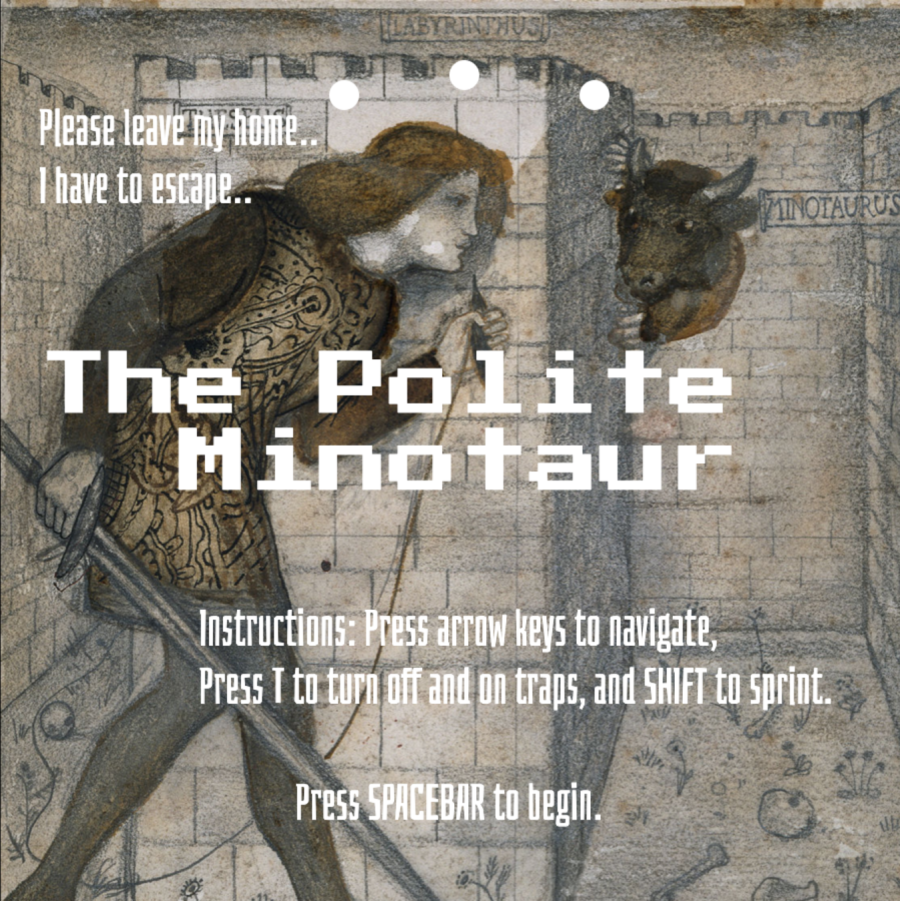
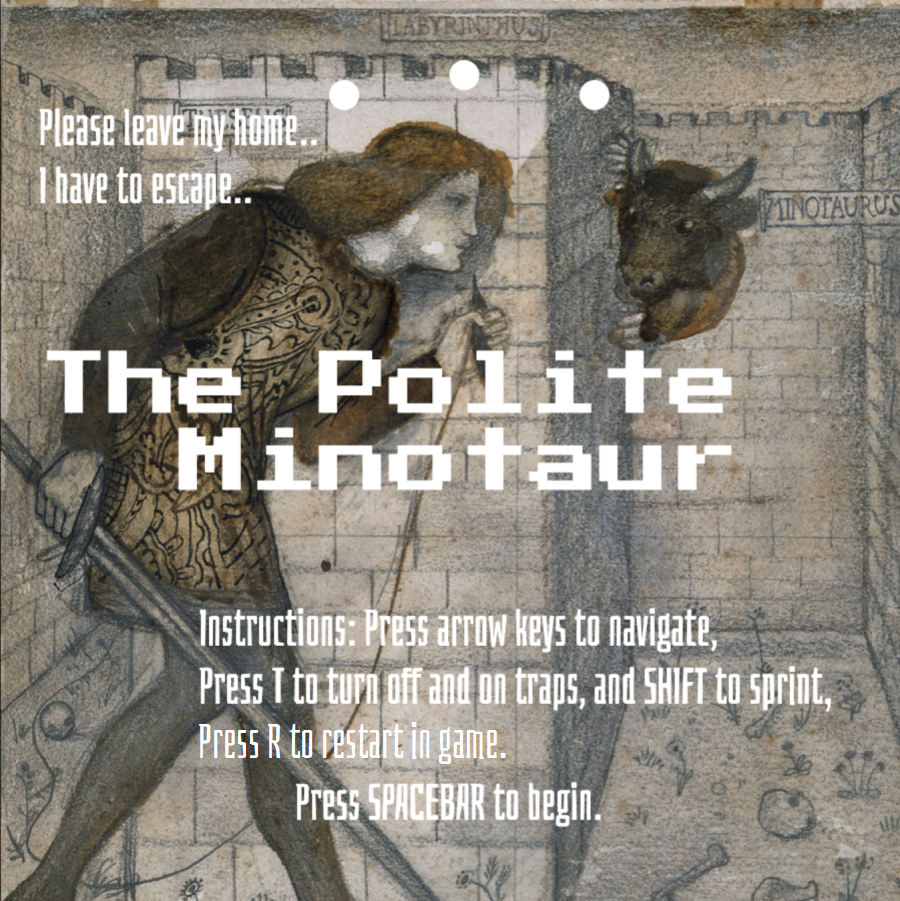
added restart in game

Changed region(s): [[0.2178, 0.808, 0.56, 0.8391]]

diff --git a/phaser/pm/js/gameover.js b/phaser/pm/js/gameover.js
@@ -10,19 +10,12 @@ GameOver.prototype = {
 	},
 
 	//create() places game over text into game space
-	create: function() {
-		if (!win){ //lose screen if you lose game
-			game.stage.backgroundColor = "#000000"; //background color
-			let titleText = game.add.text(35, 150, 'Game Over: You were killed.', { fontSize: '90px', fill: '#8A0303', font: 'Bahianita'});
-			let creditText = game.add.text(35, 420, 'Credits: \nMaxwell Burkhart: Programming and Sound Design\nDeo Joshi: Programming and Art\nAttie Sit: Programming and Art\n\nBackground music: From bensound at https://www.bensound.com\nMain menu art: Theseus and the Minosaur by Edward Burne-Jones 1861', {fill: '#ffffff', fontSize: '45px', font: 'Bahianita'});
-			let restartText = game.add.text(300, 320,'Press SPACEBAR to restart', {fill: '#aa8717', fontSize: '45px', font: 'Bahianita'});
-		}
+	create: function() {		
 		if (win){ //win screen if you win game
-			game.stage.backgroundColor = "#000000"; //background color
-			let titleText = game.add.text(30, 150, 'Game Over: You made it out alive!!!', { fontSize: '100px', fill: '#1cb377ff', font: 'Bahianita'});
-			let creditText = game.add.text(35, 420, 'Credits: \nMaxwell Burkhart: Programming and Sound Design\nDeo Joshi: Programming and Art\nAttie Sit: Programming and Art\n\nBackground music: From bensound at https://www.bensound.com\nMain menu art: Theseus and the Minosaur by Edward Burne-Jones 1861', {fill: '#ffffff', fontSize: '45px', font: 'Bahianita'});
-			let restartText = game.add.text(300, 320,'Press SPACEBAR to restart', {fill: '#aa8717', fontSize: '45px', font: 'Bahianita'});
+			game.add.image(0, 0, 'win'); //win screen
 			this.level++;
+		}else{ //lose screen if you lose game
+			game.add.image(0, 0, 'lose'); //lose screen
 		}
 	},
 

diff --git a/phaser/pm/js/title.js b/phaser/pm/js/title.js
@@ -8,6 +8,8 @@ MainMenu.prototype = {
 		game.load.image('dirt', 'assets/images/dirt.png');
 		game.load.image('fade', 'assets/images/fade.png');
 		game.load.image('doors', 'assets/images/doors.png');
+		game.load.image('lose', 'assets/images/lose.png');
+		game.load.image('win', 'assets/images/win.png');
 
 		//preload object assets
 		game.load.image('trapOff1', 'assets/images/trap3Idle.png'); //green default trap (50x50px)
@@ -36,6 +38,13 @@ MainMenu.prototype = {
 		game.load.audio('enemy',['assets/audio/enemy.mp3']);
 		game.load.audio('activate',['assets/audio/activate.mp3']);
 		game.load.audio('win',['assets/audio/win.mp3']);
+	},
+	
+	init: function(){
+		//game.scaleMode = Phaser.ScaleManager.SHOW_ALL;
+		//game.scale.pageAlignHorizontally = true;
+		//game.scale.pageAlignVertically = false;
+		//game.scale.windowConstraints.bottom = "visual";
 	},
 
 

diff --git a/phaser/pm/js/play.js b/phaser/pm/js/play.js
@@ -6,7 +6,6 @@ Play.prototype = {
 		// created local variable score in this
 		this.state = "Play";
 		this.level = level;
-		this.score = 0;
 		this.walkSpeed = 300;
 		this.runSpeed = 750;
 	},
@@ -102,6 +101,11 @@ Play.prototype = {
 
 	//update() runs gameloop
 	update: function() {
+		if(game.input.keyboard.isDown(Phaser.Keyboard.R)) {
+			// pass this.level to next state
+			// .start(key, clearWorld, clearCache, parameter)
+			game.state.start('Play', true, false,this.level);
+		}
 		emitter.x = player.x;
 		emitter.y = player.y;
 		//stop when the player collides with wall

diff --git a/phaser/pm/css/style.css b/phaser/pm/css/style.css
@@ -1,19 +1,8 @@
-<<<<<<< HEAD
 canvas {
     padding-left: 0;
     padding-right: 0;
     margin-left: auto;
     margin-right: auto;
     display: block;
-    width: 800px;
+    width: 900px;
 }
-=======
-canvas {
-    padding-left: 0;
-    padding-right: 0;
-    margin-left: auto;
-    margin-right: auto;
-    display: block;
-    width: 800px;
-}
->>>>>>> d5053d35b72dfb9a4ce5c27182b33b834f2b09bd

diff --git a/phaser/pm/js/main.js b/phaser/pm/js/main.js
@@ -22,7 +22,6 @@ var s;
 window.onload = function(){
 	game = new Phaser.Game(900, 900, Phaser.AUTO);
 
-	//game.scaleMode = Phaser.ScaleManager.SHOW_ALL;
 	game.state.add('MainMenu', MainMenu);
 	game.state.add('Play', Play);
 	game.state.add('GameOver', GameOver);
